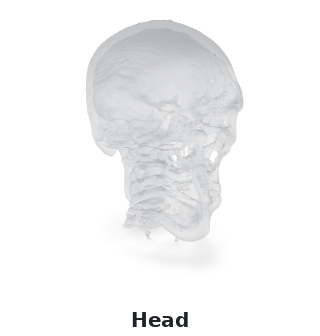
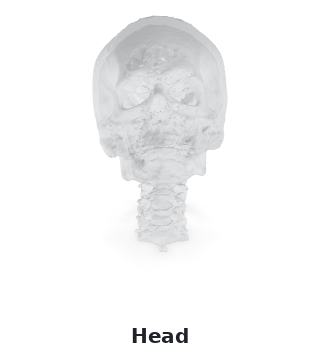
Show front-facing mesh previews at fifteen-degree elevation

diff --git a/README.md b/README.md
@@ -34,9 +34,9 @@ This is the official implementation of our ECCV 2024 paper "Radiative Gaussian S
 
 <h3 align="center"><img src="fig/exported-mesh-heading.svg" width="600" height="40" alt="Exported Meshes - Click each to open its interactive viewer"></h3>
 
-<p align="center"><a href="https://caiyuanhao1998.github.io/project/X-Gaussian/viewer/index.html?scene=chest"><img src="fig/meshes/chest.png" width="24%" alt="Chest exported mesh" title="Open interactive X-ray viewer"></a><a href="https://caiyuanhao1998.github.io/project/X-Gaussian/viewer/index.html?scene=foot"><img src="fig/meshes/foot.png" width="24%" alt="Foot exported mesh" title="Open interactive X-ray viewer"></a><a href="https://caiyuanhao1998.github.io/project/X-Gaussian/viewer/index.html?scene=head"><img src="fig/meshes/head.png" width="24%" alt="Head exported mesh" title="Open interactive X-ray viewer"></a><a href="https://caiyuanhao1998.github.io/project/X-Gaussian/viewer/index.html?scene=abdomen"><img src="fig/meshes/abdomen.png" width="24%" alt="Abdomen exported mesh" title="Open interactive X-ray viewer"></a></p>
+<p align="center"><a href="https://caiyuanhao1998.github.io/project/X-Gaussian/viewer/index.html?scene=chest"><img src="fig/meshes/chest.png?v=front15" width="24%" alt="Chest exported mesh" title="Open interactive X-ray viewer"></a><a href="https://caiyuanhao1998.github.io/project/X-Gaussian/viewer/index.html?scene=foot"><img src="fig/meshes/foot.png?v=front15" width="24%" alt="Foot exported mesh" title="Open interactive X-ray viewer"></a><a href="https://caiyuanhao1998.github.io/project/X-Gaussian/viewer/index.html?scene=head"><img src="fig/meshes/head.png?v=front15" width="24%" alt="Head exported mesh" title="Open interactive X-ray viewer"></a><a href="https://caiyuanhao1998.github.io/project/X-Gaussian/viewer/index.html?scene=abdomen"><img src="fig/meshes/abdomen.png?v=front15" width="24%" alt="Abdomen exported mesh" title="Open interactive X-ray viewer"></a></p>
 
-<p align="center"><a href="https://caiyuanhao1998.github.io/project/X-Gaussian/viewer/index.html?scene=pancreas"><img src="fig/meshes/pancreas.png" width="24%" alt="Pancreas exported mesh" title="Open interactive X-ray viewer"></a><a href="https://caiyuanhao1998.github.io/project/X-Gaussian/viewer/index.html?scene=pine"><img src="fig/meshes/pine.png" width="24%" alt="Pine exported mesh" title="Open interactive X-ray viewer"></a><a href="https://caiyuanhao1998.github.io/project/X-Gaussian/viewer/index.html?scene=seashell"><img src="fig/meshes/seashell.png" width="24%" alt="Seashell exported mesh" title="Open interactive X-ray viewer"></a><a href="https://caiyuanhao1998.github.io/project/X-Gaussian/viewer/index.html?scene=walnut"><img src="fig/meshes/walnut.png" width="24%" alt="Walnut exported mesh" title="Open interactive X-ray viewer"></a></p>
+<p align="center"><a href="https://caiyuanhao1998.github.io/project/X-Gaussian/viewer/index.html?scene=pancreas"><img src="fig/meshes/pancreas.png?v=front15" width="24%" alt="Pancreas exported mesh" title="Open interactive X-ray viewer"></a><a href="https://caiyuanhao1998.github.io/project/X-Gaussian/viewer/index.html?scene=pine"><img src="fig/meshes/pine.png?v=front15" width="24%" alt="Pine exported mesh" title="Open interactive X-ray viewer"></a><a href="https://caiyuanhao1998.github.io/project/X-Gaussian/viewer/index.html?scene=seashell"><img src="fig/meshes/seashell.png?v=front15" width="24%" alt="Seashell exported mesh" title="Open interactive X-ray viewer"></a><a href="https://caiyuanhao1998.github.io/project/X-Gaussian/viewer/index.html?scene=walnut"><img src="fig/meshes/walnut.png?v=front15" width="24%" alt="Walnut exported mesh" title="Open interactive X-ray viewer"></a></p>
 
 ### News
 - **2026.11.14 :** We launched our [project page](https://caiyuanhao1998.github.io/project/X-Gaussian/) and released [CT meshes](https://huggingface.co/datasets/CaiYuanhao/X-Gaussian/tree/main/meshes) and [interactive X-ray visualizations](https://caiyuanhao1998.github.io/project/X-Gaussian/viewer/index.html?scene=head).
